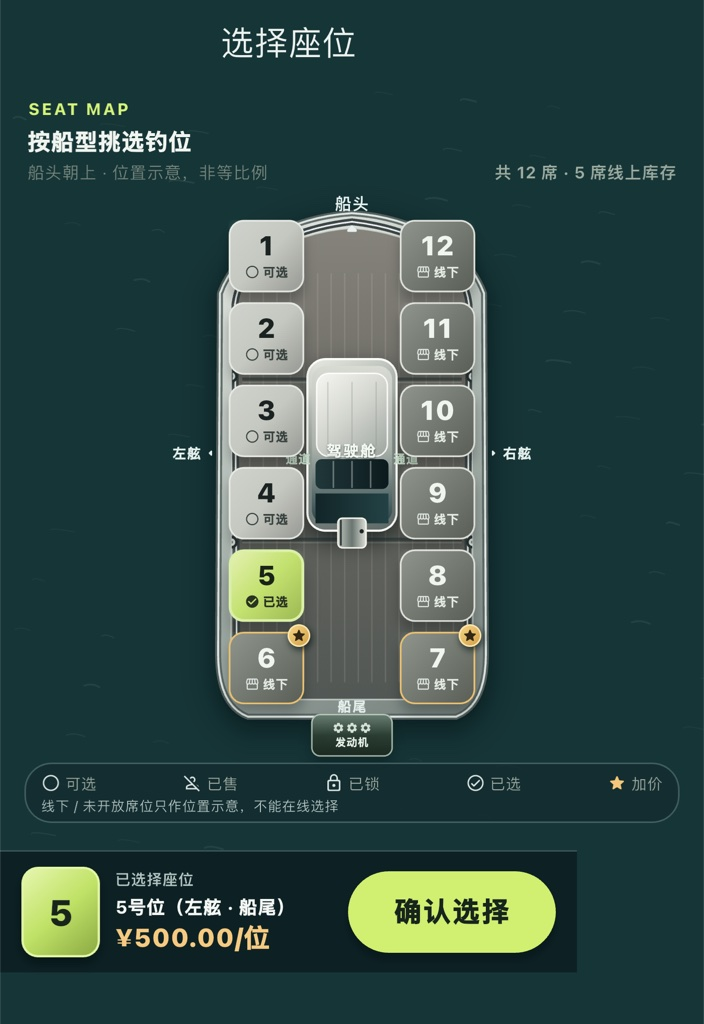
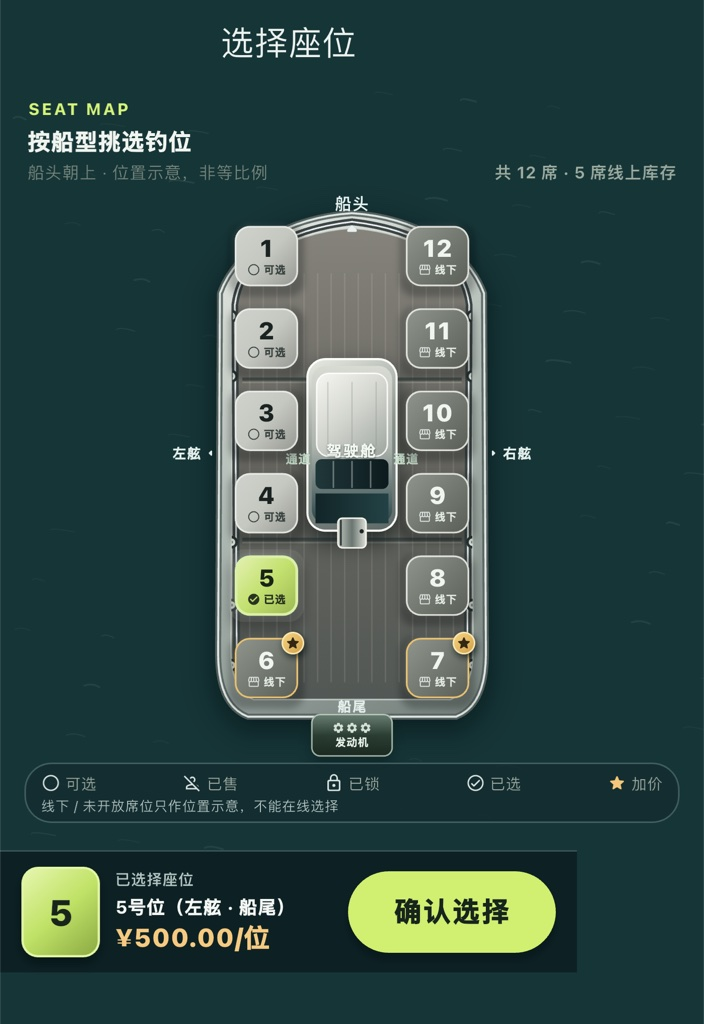
fix: space out V04 seat markers

Changed region(s): [[0.5625, 0.1875, 0.6875, 0.6875], [0.3125, 0.1875, 0.4375, 0.6875]]

diff --git a/app/lib/step3_flow.dart b/app/lib/step3_flow.dart
@@ -2077,7 +2077,7 @@ class _SeatTile extends StatelessWidget {
           '钓位 ${seat['number']}，$statusLabel${premium ? '，船尾加价位${seat['priceFen'] == null ? '' : '，每位${_money(_number(seat['priceFen']))}'}' : ''}',
       child: Material(
         color: Colors.transparent,
-        elevation: selected ? 9 : 6,
+        elevation: selected ? 6 : 3,
         shadowColor: const Color(0xD9001518),
         borderRadius: BorderRadius.circular(10),
         child: Stack(
@@ -2087,93 +2087,97 @@ class _SeatTile extends StatelessWidget {
               child: InkWell(
                 onTap: available ? onTap : null,
                 borderRadius: BorderRadius.circular(10),
-                child: Ink(
-                  decoration: BoxDecoration(
-                    gradient: LinearGradient(
-                      begin: Alignment.topLeft,
-                      end: Alignment.bottomRight,
-                      colors: selected
-                          ? const [
-                              Color(0xFFE7F8AD),
-                              Color(0xFFB9E54D),
-                              Color(0xFF8DB52F),
-                            ]
-                          : [
-                              Color.lerp(color, Colors.white, .20)!,
-                              color,
-                              Color.lerp(color, Colors.black, .24)!,
-                            ],
-                    ),
-                    border: Border.all(
-                      color: outline,
-                      width: selected ? 1.8 : 1.15,
-                    ),
-                    borderRadius: BorderRadius.circular(10),
-                    boxShadow: [
-                      BoxShadow(
-                        color: const Color(
-                          0xFFE6EEE5,
-                        ).withValues(alpha: selected ? .22 : .12),
-                        offset: const Offset(-1, -1),
-                        blurRadius: 2,
+                child: Center(
+                  child: Ink(
+                    width: 42,
+                    height: 40,
+                    decoration: BoxDecoration(
+                      gradient: LinearGradient(
+                        begin: Alignment.topLeft,
+                        end: Alignment.bottomRight,
+                        colors: selected
+                            ? const [
+                                Color(0xFFE7F8AD),
+                                Color(0xFFB9E54D),
+                                Color(0xFF8DB52F),
+                              ]
+                            : [
+                                Color.lerp(color, Colors.white, .20)!,
+                                color,
+                                Color.lerp(color, Colors.black, .24)!,
+                              ],
                       ),
-                    ],
-                  ),
-                  child: Column(
-                    mainAxisAlignment: MainAxisAlignment.center,
-                    children: [
-                      Text(
-                        '${seat['number']}',
-                        style: TextStyle(
-                          fontSize: 18,
-                          height: 1,
-                          fontWeight: FontWeight.w900,
-                          color: selected
-                              ? const Color(0xFF172316)
-                              : status == 'available' && !premium
-                              ? const Color(0xFF182322)
-                              : FishingTokens.ink,
+                      border: Border.all(
+                        color: outline,
+                        width: selected ? 1.8 : 1.15,
+                      ),
+                      borderRadius: BorderRadius.circular(10),
+                      boxShadow: [
+                        BoxShadow(
+                          color: const Color(
+                            0xFFE6EEE5,
+                          ).withValues(alpha: selected ? .22 : .12),
+                          offset: const Offset(-1, -1),
+                          blurRadius: 2,
                         ),
-                      ),
-                      const SizedBox(height: 3),
-                      Row(
-                        mainAxisAlignment: MainAxisAlignment.center,
-                        mainAxisSize: MainAxisSize.min,
-                        children: [
-                          Icon(
-                            _seatStatusIcon(status, selected),
-                            size: 10,
+                      ],
+                    ),
+                    child: Column(
+                      mainAxisAlignment: MainAxisAlignment.center,
+                      children: [
+                        Text(
+                          '${seat['number']}',
+                          style: TextStyle(
+                            fontSize: 16,
+                            height: 1,
+                            fontWeight: FontWeight.w900,
                             color: selected
-                                ? const Color(0xFF26331F)
+                                ? const Color(0xFF172316)
                                 : status == 'available' && !premium
-                                ? const Color(0xFF354340)
-                                : const Color(0xFFDCE5E1),
+                                ? const Color(0xFF182322)
+                                : FishingTokens.ink,
                           ),
-                          const SizedBox(width: 2),
-                          Text(
-                            statusLabel,
-                            style: TextStyle(
-                              fontSize: 8,
-                              height: 1,
-                              fontWeight: FontWeight.w800,
+                        ),
+                        const SizedBox(height: 2),
+                        Row(
+                          mainAxisAlignment: MainAxisAlignment.center,
+                          mainAxisSize: MainAxisSize.min,
+                          children: [
+                            Icon(
+                              _seatStatusIcon(status, selected),
+                              size: 9,
                               color: selected
                                   ? const Color(0xFF26331F)
                                   : status == 'available' && !premium
                                   ? const Color(0xFF354340)
-                                  : const Color(0xFFE0EAE1),
+                                  : const Color(0xFFDCE5E1),
                             ),
-                          ),
-                        ],
-                      ),
-                    ],
+                            const SizedBox(width: 2),
+                            Text(
+                              statusLabel,
+                              style: TextStyle(
+                                fontSize: 7,
+                                height: 1,
+                                fontWeight: FontWeight.w800,
+                                color: selected
+                                    ? const Color(0xFF26331F)
+                                    : status == 'available' && !premium
+                                    ? const Color(0xFF354340)
+                                    : const Color(0xFFE0EAE1),
+                              ),
+                            ),
+                          ],
+                        ),
+                      ],
+                    ),
                   ),
                 ),
               ),
             ),
             if (premium)
               Positioned(
-                right: -4,
-                top: -5,
+                right: 0,
+                top: 0,
                 child: DecoratedBox(
                   decoration: BoxDecoration(
                     gradient: const LinearGradient(
